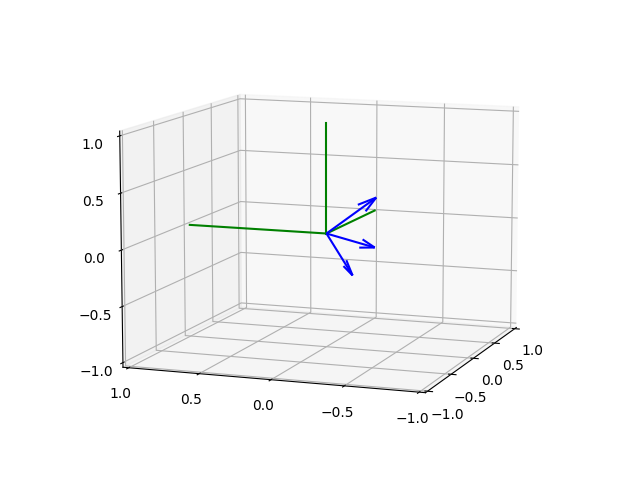
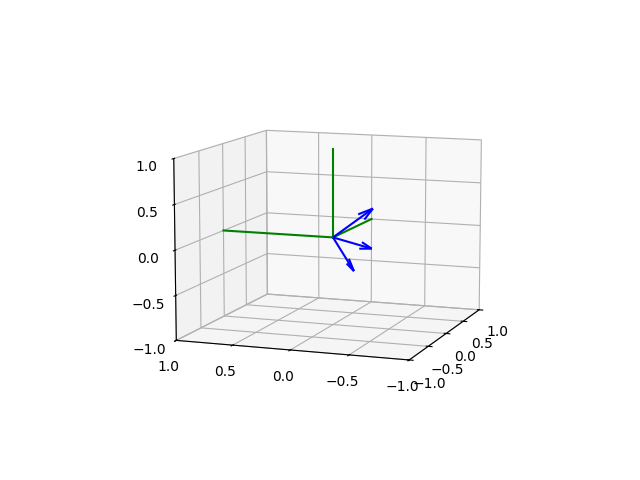
-

diff --git a/phy/phy_005_basics_04/phy_005_basics_04.html b/phy/phy_005_basics_04/phy_005_basics_04.html
@@ -506,29 +506,23 @@ edildi, bunlar tabii ki birbirine dik, hepsini grafikleyelim, yeşil
 üzere,</p>
 <div class="sourceCode" id="cb3"><pre
 class="sourceCode python"><code class="sourceCode python"><span id="cb3-1"><a href="#cb3-1" aria-hidden="true" tabindex="-1"></a><span class="im">from</span> mpl_toolkits <span class="im">import</span> mplot3d</span>
-<span id="cb3-2"><a href="#cb3-2" aria-hidden="true" tabindex="-1"></a></span>
-<span id="cb3-3"><a href="#cb3-3" aria-hidden="true" tabindex="-1"></a><span class="kw">def</span> plot_vector(fig, orig, v, color<span class="op">=</span><span class="st">&#39;blue&#39;</span>):</span>
-<span id="cb3-4"><a href="#cb3-4" aria-hidden="true" tabindex="-1"></a>   ax <span class="op">=</span> fig.gca(projection<span class="op">=</span><span class="st">&#39;3d&#39;</span>)</span>
-<span id="cb3-5"><a href="#cb3-5" aria-hidden="true" tabindex="-1"></a>   orig <span class="op">=</span> np.array(orig)<span class="op">;</span> v<span class="op">=</span>np.array(v)</span>
-<span id="cb3-6"><a href="#cb3-6" aria-hidden="true" tabindex="-1"></a>   ax.quiver(orig[<span class="dv">0</span>], orig[<span class="dv">1</span>], orig[<span class="dv">2</span>], v[<span class="dv">0</span>], v[<span class="dv">1</span>], v[<span class="dv">2</span>],color<span class="op">=</span>color)</span>
-<span id="cb3-7"><a href="#cb3-7" aria-hidden="true" tabindex="-1"></a>   ax <span class="op">=</span> fig.gca(projection<span class="op">=</span><span class="st">&#39;3d&#39;</span>)  </span>
-<span id="cb3-8"><a href="#cb3-8" aria-hidden="true" tabindex="-1"></a>   <span class="cf">return</span> fig</span>
-<span id="cb3-9"><a href="#cb3-9" aria-hidden="true" tabindex="-1"></a></span>
-<span id="cb3-10"><a href="#cb3-10" aria-hidden="true" tabindex="-1"></a>fig <span class="op">=</span> plt.figure()</span>
-<span id="cb3-11"><a href="#cb3-11" aria-hidden="true" tabindex="-1"></a>axes <span class="op">=</span> mplot3d.Axes3D(fig)</span>
-<span id="cb3-12"><a href="#cb3-12" aria-hidden="true" tabindex="-1"></a>SCALE <span class="op">=</span> <span class="fl">0.5</span></span>
-<span id="cb3-13"><a href="#cb3-13" aria-hidden="true" tabindex="-1"></a>plot_vector(fig, [<span class="dv">0</span>,<span class="dv">0</span>,<span class="dv">0</span>],evec [:,<span class="dv">0</span>]<span class="op">*</span>SCALE)</span>
-<span id="cb3-14"><a href="#cb3-14" aria-hidden="true" tabindex="-1"></a>plot_vector(fig, [<span class="dv">0</span>,<span class="dv">0</span>,<span class="dv">0</span>],evec [:,<span class="dv">1</span>]<span class="op">*</span>SCALE)</span>
-<span id="cb3-15"><a href="#cb3-15" aria-hidden="true" tabindex="-1"></a>plot_vector(fig, [<span class="dv">0</span>,<span class="dv">0</span>,<span class="dv">0</span>],evec [:,<span class="dv">2</span>]<span class="op">*</span>SCALE)</span>
-<span id="cb3-16"><a href="#cb3-16" aria-hidden="true" tabindex="-1"></a>axes.view_init(elev<span class="op">=</span><span class="dv">10</span>, azim<span class="op">=</span><span class="dv">200</span>)</span>
-<span id="cb3-17"><a href="#cb3-17" aria-hidden="true" tabindex="-1"></a>axes.set_xlim(<span class="op">-</span><span class="dv">1</span>,<span class="dv">1</span>)</span>
-<span id="cb3-18"><a href="#cb3-18" aria-hidden="true" tabindex="-1"></a>axes.set_ylim(<span class="op">-</span><span class="dv">1</span>,<span class="dv">1</span>)</span>
-<span id="cb3-19"><a href="#cb3-19" aria-hidden="true" tabindex="-1"></a>axes.set_zlim(<span class="op">-</span><span class="dv">1</span>,<span class="dv">1</span>)</span>
-<span id="cb3-20"><a href="#cb3-20" aria-hidden="true" tabindex="-1"></a>axes.plot([<span class="dv">0</span>,<span class="dv">1</span>],[<span class="dv">0</span>,<span class="dv">0</span>],[<span class="dv">0</span>,<span class="dv">0</span>],color <span class="op">=</span> <span class="st">&#39;g&#39;</span>)</span>
-<span id="cb3-21"><a href="#cb3-21" aria-hidden="true" tabindex="-1"></a>axes.plot([<span class="dv">0</span>,<span class="dv">0</span>],[<span class="dv">0</span>,<span class="dv">1</span>],[<span class="dv">0</span>,<span class="dv">0</span>],color <span class="op">=</span> <span class="st">&#39;g&#39;</span>)</span>
-<span id="cb3-22"><a href="#cb3-22" aria-hidden="true" tabindex="-1"></a>axes.plot([<span class="dv">0</span>,<span class="dv">0</span>],[<span class="dv">0</span>,<span class="dv">0</span>],[<span class="dv">0</span>,<span class="dv">1</span>],color <span class="op">=</span> <span class="st">&#39;g&#39;</span>)</span>
-<span id="cb3-23"><a href="#cb3-23" aria-hidden="true" tabindex="-1"></a>axes.locator_params(tight<span class="op">=</span><span class="va">True</span>, nbins<span class="op">=</span><span class="dv">4</span>)</span>
-<span id="cb3-24"><a href="#cb3-24" aria-hidden="true" tabindex="-1"></a>plt.savefig(<span class="st">&#39;phy_005_basics_04_02.png&#39;</span>)</span></code></pre></div>
+<span id="cb3-2"><a href="#cb3-2" aria-hidden="true" tabindex="-1"></a><span class="im">import</span> sys<span class="op">;</span> sys.path.append(<span class="st">&quot;../phy_072_rot&quot;</span>)</span>
+<span id="cb3-3"><a href="#cb3-3" aria-hidden="true" tabindex="-1"></a><span class="im">import</span> plot3d</span>
+<span id="cb3-4"><a href="#cb3-4" aria-hidden="true" tabindex="-1"></a></span>
+<span id="cb3-5"><a href="#cb3-5" aria-hidden="true" tabindex="-1"></a>fig, ax <span class="op">=</span> plt.subplots(<span class="dv">1</span>, <span class="dv">1</span>, subplot_kw<span class="op">=</span>{<span class="st">&#39;projection&#39;</span>: <span class="st">&#39;3d&#39;</span>})</span>
+<span id="cb3-6"><a href="#cb3-6" aria-hidden="true" tabindex="-1"></a>SCALE <span class="op">=</span> <span class="fl">0.5</span></span>
+<span id="cb3-7"><a href="#cb3-7" aria-hidden="true" tabindex="-1"></a>plot3d.plot_vector(ax, [<span class="dv">0</span>,<span class="dv">0</span>,<span class="dv">0</span>],evec [:,<span class="dv">0</span>]<span class="op">*</span>SCALE)</span>
+<span id="cb3-8"><a href="#cb3-8" aria-hidden="true" tabindex="-1"></a>plot3d.plot_vector(ax, [<span class="dv">0</span>,<span class="dv">0</span>,<span class="dv">0</span>],evec [:,<span class="dv">1</span>]<span class="op">*</span>SCALE)</span>
+<span id="cb3-9"><a href="#cb3-9" aria-hidden="true" tabindex="-1"></a>plot3d.plot_vector(ax, [<span class="dv">0</span>,<span class="dv">0</span>,<span class="dv">0</span>],evec [:,<span class="dv">2</span>]<span class="op">*</span>SCALE)</span>
+<span id="cb3-10"><a href="#cb3-10" aria-hidden="true" tabindex="-1"></a>ax.view_init(elev<span class="op">=</span><span class="dv">10</span>, azim<span class="op">=</span><span class="dv">200</span>)</span>
+<span id="cb3-11"><a href="#cb3-11" aria-hidden="true" tabindex="-1"></a>ax.set_xlim(<span class="op">-</span><span class="dv">1</span>,<span class="dv">1</span>)</span>
+<span id="cb3-12"><a href="#cb3-12" aria-hidden="true" tabindex="-1"></a>ax.set_ylim(<span class="op">-</span><span class="dv">1</span>,<span class="dv">1</span>)</span>
+<span id="cb3-13"><a href="#cb3-13" aria-hidden="true" tabindex="-1"></a>ax.set_zlim(<span class="op">-</span><span class="dv">1</span>,<span class="dv">1</span>)</span>
+<span id="cb3-14"><a href="#cb3-14" aria-hidden="true" tabindex="-1"></a>ax.plot([<span class="dv">0</span>,<span class="dv">1</span>],[<span class="dv">0</span>,<span class="dv">0</span>],[<span class="dv">0</span>,<span class="dv">0</span>],color <span class="op">=</span> <span class="st">&#39;g&#39;</span>)</span>
+<span id="cb3-15"><a href="#cb3-15" aria-hidden="true" tabindex="-1"></a>ax.plot([<span class="dv">0</span>,<span class="dv">0</span>],[<span class="dv">0</span>,<span class="dv">1</span>],[<span class="dv">0</span>,<span class="dv">0</span>],color <span class="op">=</span> <span class="st">&#39;g&#39;</span>)</span>
+<span id="cb3-16"><a href="#cb3-16" aria-hidden="true" tabindex="-1"></a>ax.plot([<span class="dv">0</span>,<span class="dv">0</span>],[<span class="dv">0</span>,<span class="dv">0</span>],[<span class="dv">0</span>,<span class="dv">1</span>],color <span class="op">=</span> <span class="st">&#39;g&#39;</span>)</span>
+<span id="cb3-17"><a href="#cb3-17" aria-hidden="true" tabindex="-1"></a>ax.locator_params(tight<span class="op">=</span><span class="va">True</span>, nbins<span class="op">=</span><span class="dv">4</span>)</span>
+<span id="cb3-18"><a href="#cb3-18" aria-hidden="true" tabindex="-1"></a>plt.savefig(<span class="st">&#39;phy_005_basics_04_02.png&#39;</span>)</span></code></pre></div>
 <p><img src="phy_005_basics_04_02.png" /></p>
 <p>Kaynaklar</p>
 <p>[1] Taylor, <em>Classical Mechanics</em></p>

diff --git a/phy/phy_005_basics_04/phy_005_basics_04.md b/phy/phy_005_basics_04/phy_005_basics_04.md
@@ -460,28 +460,22 @@ grafikleyelim, yeşil çizgiler $x,y,z$ eksenleri olmak üzere,
 
 ```python
 from mpl_toolkits import mplot3d
+import sys; sys.path.append("../phy_072_rot")
+import plot3d
 
-def plot_vector(fig, orig, v, color='blue'):
-   ax = fig.gca(projection='3d')
-   orig = np.array(orig); v=np.array(v)
-   ax.quiver(orig[0], orig[1], orig[2], v[0], v[1], v[2],color=color)
-   ax = fig.gca(projection='3d')  
-   return fig
-
-fig = plt.figure()
-axes = mplot3d.Axes3D(fig)
+fig, ax = plt.subplots(1, 1, subplot_kw={'projection': '3d'})
 SCALE = 0.5
-plot_vector(fig, [0,0,0],evec [:,0]*SCALE)
-plot_vector(fig, [0,0,0],evec [:,1]*SCALE)
-plot_vector(fig, [0,0,0],evec [:,2]*SCALE)
-axes.view_init(elev=10, azim=200)
-axes.set_xlim(-1,1)
-axes.set_ylim(-1,1)
-axes.set_zlim(-1,1)
-axes.plot([0,1],[0,0],[0,0],color = 'g')
-axes.plot([0,0],[0,1],[0,0],color = 'g')
-axes.plot([0,0],[0,0],[0,1],color = 'g')
-axes.locator_params(tight=True, nbins=4)
+plot3d.plot_vector(ax, [0,0,0],evec [:,0]*SCALE)
+plot3d.plot_vector(ax, [0,0,0],evec [:,1]*SCALE)
+plot3d.plot_vector(ax, [0,0,0],evec [:,2]*SCALE)
+ax.view_init(elev=10, azim=200)
+ax.set_xlim(-1,1)
+ax.set_ylim(-1,1)
+ax.set_zlim(-1,1)
+ax.plot([0,1],[0,0],[0,0],color = 'g')
+ax.plot([0,0],[0,1],[0,0],color = 'g')
+ax.plot([0,0],[0,0],[0,1],color = 'g')
+ax.locator_params(tight=True, nbins=4)
 plt.savefig('phy_005_basics_04_02.png')
 ```
 
